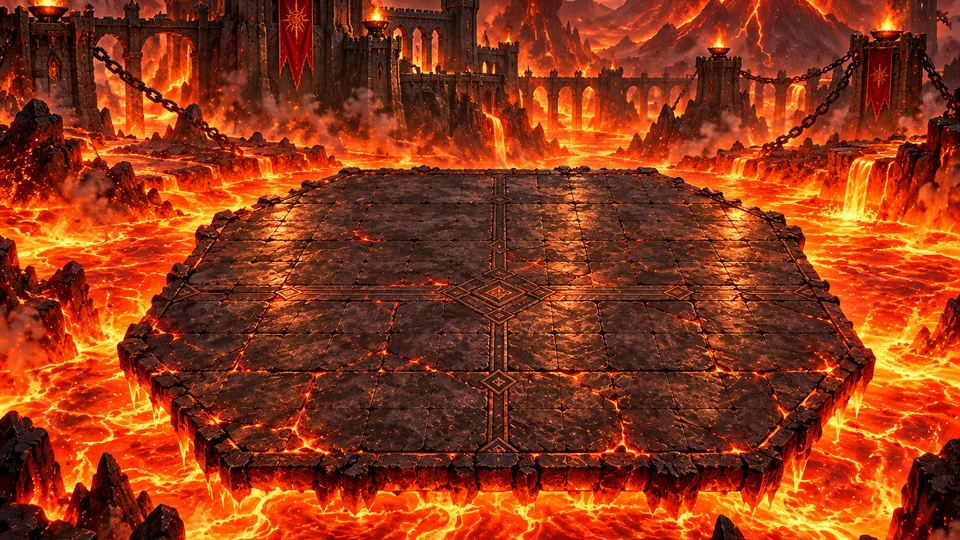
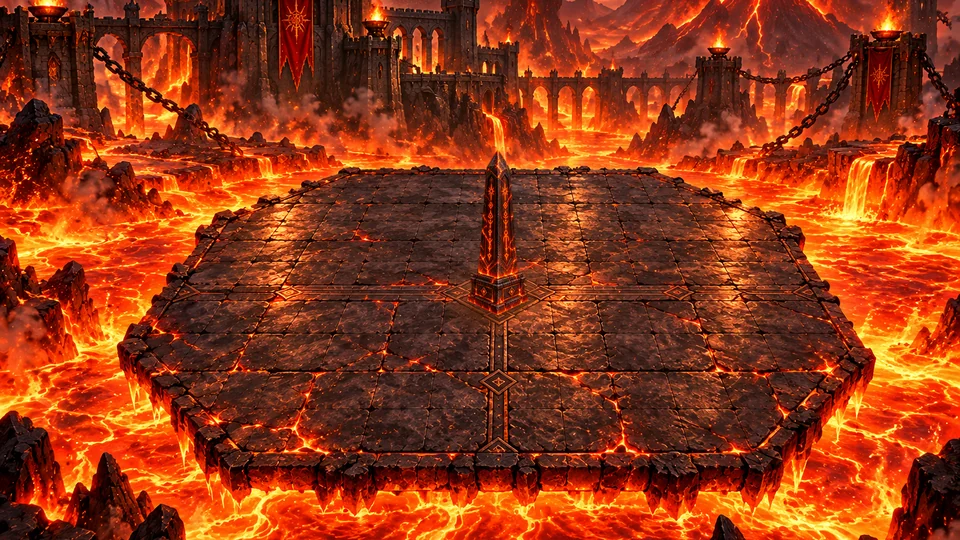
Lava Fortress: an obsidian obelisk on the floor's emblem in the middle of the platform (painted in, the lava light from its cracks on the floor) — tall cover to fight round and hide behind; the round's start marks and the open middle moved in front of it
Claude-Session: https://claude.ai/code/session_019q8CMrxghbNzj8w42KsHoP

Changed region(s): [[0.4688, 0.2667, 0.5938, 0.6222], [0.4688, 0.6222, 0.5, 0.6519]]

diff --git a/src/world/Stages.ts b/src/world/Stages.ts
@@ -47,13 +47,18 @@ const SAKURA_GEO: StageGeo = {
   centre: [840, 560],
 };
 
-/** The Lava Fortress: an eight-sided stone platform over a lava lake — its corners cut, open all round. */
+/** The Lava Fortress: an eight-sided stone platform over a lava lake — its corners cut, open all round — with an obsidian
+ *  obelisk in the middle to fight round and hide behind. */
 const LAVA_GEO: StageGeo = {
   floor: [[610, 300], [1140, 300], [1380, 402], [1506, 606], [1352, 790], [382, 790], [220, 606], [360, 402]],
-  props: [],
-  spawns: [[860, 740], [420, 700], [1300, 700], [660, 360], [1080, 360], [330, 560], [1400, 560], [860, 560]],
-  start: { y: 560, left: 732, right: 988 },
-  centre: [860, 560],
+  props: [
+    // the obelisk on the floor's emblem: its square base turned 45° (a diamond on the floor); tall cover, nobody stands on it
+    { id: 'obsidian-obelisk', footprint: [[866, 547], [918, 520], [866, 493], [814, 520]], height: 290, cover: 'hard', frontY: 547,
+      occluder: [[867, 259], [847, 294], [833, 472], [824, 476], [819, 484], [821, 506], [814, 520], [815, 524], [865, 548], [919, 523], [912, 501], [914, 483], [908, 475], [900, 472], [887, 296]] },
+  ],
+  spawns: [[860, 740], [420, 700], [1300, 700], [660, 360], [1080, 360], [330, 560], [1400, 560], [866, 640]],
+  start: { y: 640, left: 732, right: 1000 },
+  centre: [866, 650],
 };
 
 export const STAGES: Stage[] = [
